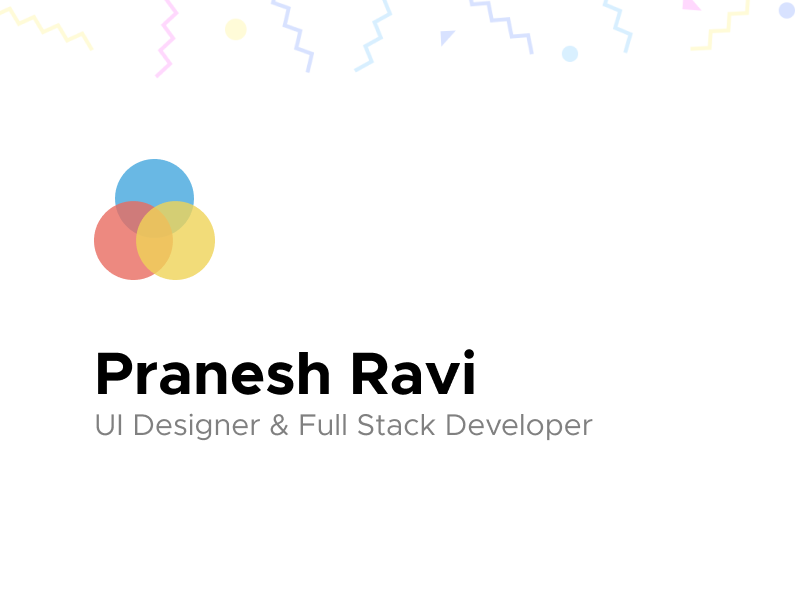
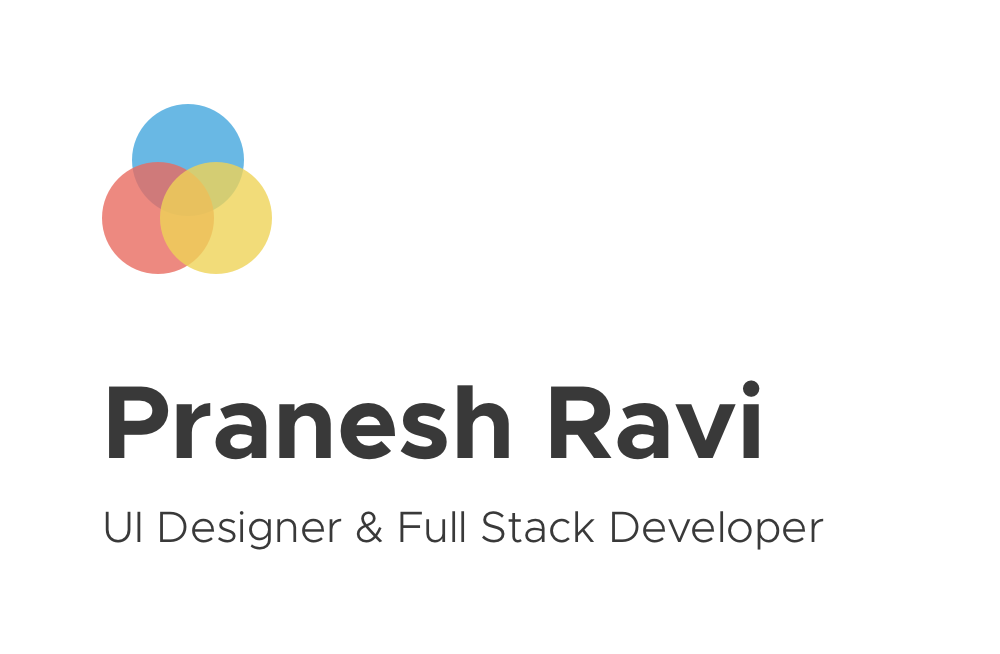
Updating images

diff --git a/dist/index.css b/dist/index.css
@@ -1095,7 +1095,7 @@ a {
 .pattern {
   height: 100px;
   width: 100%;
-  background-image: url("/img/pattern.png");
+  background-image: url("/img/pattern.svg");
   opacity: 0.2; }
 
 .content {
@@ -1142,7 +1142,8 @@ a {
         display: flex;
         align-items: center;
         justify-content: center;
-        position: relative; }
+        position: relative;
+        min-height: 500px; }
         .content .projects .project .image:hover {
           overflow: hidden; }
           .content .projects .project .image:hover img {
@@ -1167,21 +1168,21 @@ a {
           width: 100%;
           transition: filter 0.3s ease; }
         .content .projects .project .image.m {
-          background-color: #FF466E; }
+          background-color: #ffd3dd; }
         .content .projects .project .image.h {
           background-color: #F4F5FC; }
         .content .projects .project .image.c {
-          background-color: #fced6b; }
+          background-color: #fff9c7; }
         .content .projects .project .image.r {
-          background-color: #ffce4f; }
+          background-color: #d4eedb; }
         .content .projects .project .image.p {
-          background-color: #4C90F5; }
+          background-color: #e3eeff; }
         .content .projects .project .image.i {
           background-color: #ffcec7; }
         .content .projects .project .image.statements {
-          background-color: #8E8AFF; }
+          background-color: #e4e3ff; }
         .content .projects .project .image.e {
-          background-color: #d0c0b8; }
+          background-color: #efe4df; }
       .content .projects .project .details .title {
         font-size: 30px;
         font-weight: 500;
@@ -1212,6 +1213,8 @@ a {
     .contact .footer .credit {
       font-size: 20px;
       margin-bottom: 30px; }
+    .contact .footer .license {
+      line-height: 25px; }
 
 .copy {
   margin-top: 80px;
@@ -1246,6 +1249,7 @@ a {
   .content .projects .project.right, .content .projects .project.left {
     padding: 0; }
   .content .projects .project .image {
+    min-height: 200px;
     height: 100%;
     padding: 10px; } }
 
@@ -1265,8 +1269,9 @@ a {
   .content .projects .project.right {
     padding-left: 10px; }
   .content .projects .project .image {
-    height: 350px;
-    padding: 10px; }
+    height: 100%;
+    padding: 10px;
+    min-height: 200px; }
   .content .projects .project .details .title {
     font-size: 26px;
     margin: 30px 0 20px; }

diff --git a/index.html b/index.html
@@ -53,7 +53,7 @@
             <b>Pranesh</b>. A passionate UI designer and a Full Stack developer from Chennai, India.
           </p>
           <p class="info">
-            I've 3 years of experience in designing and building highly scalable web applications. I mostly work with React JS, Node JS,
+            I have 3 years of experience in designing and building highly scalable web applications. I mostly work with React JS, Node JS,
             GraphQL and Sketch. I'm also fluent with build tools like Webpack and Parcel, transpilers like Babel and Typescript, CIs
             like GoCD and Travis. I care a lot about user experience, minimalizm, reusability and clean code.
           </p>
@@ -196,12 +196,14 @@
           <div class="row">
             <div class="col-md-6 col-lg-6 col-sm-12 col-xs-12">
               <div class="project left">
-                <div class="image statements">
-                  <div class="hover">
-                    Visit Project ⇾
+                <a href="https://dribbble.com/shots/4562145-Statement" target="_blank">
+                  <div class="image statements">
+                    <div class="hover">
+                      Visit Project ⇾
+                    </div>
+                    <img src="/img/statements.png" alt="Statement">
                   </div>
-                  <img src="/img/statements.png" alt="Statement">
-                </div>
+                </a>
                 <div class="details">
                   <div class="title">Statement</div>
                   <div class="description">
@@ -237,7 +239,7 @@
             <div class="col-xs-12">
               <div class="more">
                 More work on <a href="https://praneshr.dribbble.com/" id="dribbble" target="_blank">Dribbble ⇾</a> and
-                <a href="https://github.com/praneshr" id="git" target="_blank">Github ⇾</a>
+                <a href="https://github.com/praneshr?utf8=%E2%9C%93&tab=repositories&q=&type=public&language=" id="git" target="_blank">Github ⇾</a>
               </div>
             </div>
           </div>

diff --git a/src/index.scss b/src/index.scss
@@ -47,7 +47,7 @@ a {
 .pattern {
   height: 100px;
   width: 100%;
-  background-image: url("/img/pattern.png");
+  background-image: url("/img/pattern.svg");
   opacity: 0.2;
 }
 
@@ -107,6 +107,7 @@ a {
         align-items: center;
         justify-content: center;
         position: relative;
+        min-height: 500px;
         &:hover {
           overflow: hidden;
           img {
@@ -136,28 +137,28 @@ a {
           transition: filter 0.3s ease;
         }
         &.m {
-          background-color: #FF466E;
+          background-color: #ffd3dd;
         }
         &.h {
           background-color: #F4F5FC;
         }
         &.c {
-          background-color: rgb(252, 237, 107);
+          background-color: #fff9c7;
         }
         &.r {
-          background-color: #ffce4f;
+          background-color: #d4eedb;
         }
         &.p {
-          background-color: #4C90F5;
+          background-color: #e3eeff;
         }
         &.i {
           background-color: #ffcec7;
         }
         &.statements {
-          background-color: #8E8AFF;
+          background-color: #e4e3ff;
         }
         &.e {
-          background-color: #d0c0b8;
+          background-color: #efe4df;
         }
       }
       .details {
@@ -200,6 +201,9 @@ a {
     .credit {
       font-size: 20px;
       margin-bottom: 30px;
+    }
+    .license {
+      line-height: 25px;
     }
   }
 }
@@ -253,6 +257,7 @@ a {
           padding: 0;
         }
         .image {
+          min-height: 200px;
           height: 100%;
           padding: 10px;
         }
@@ -289,8 +294,9 @@ a {
           padding-left: 10px;
         }
         .image {
-          height: 350px;
+          height: 100%;
           padding: 10px;
+          min-height: 200px;
         }
         .details {
           .title {
